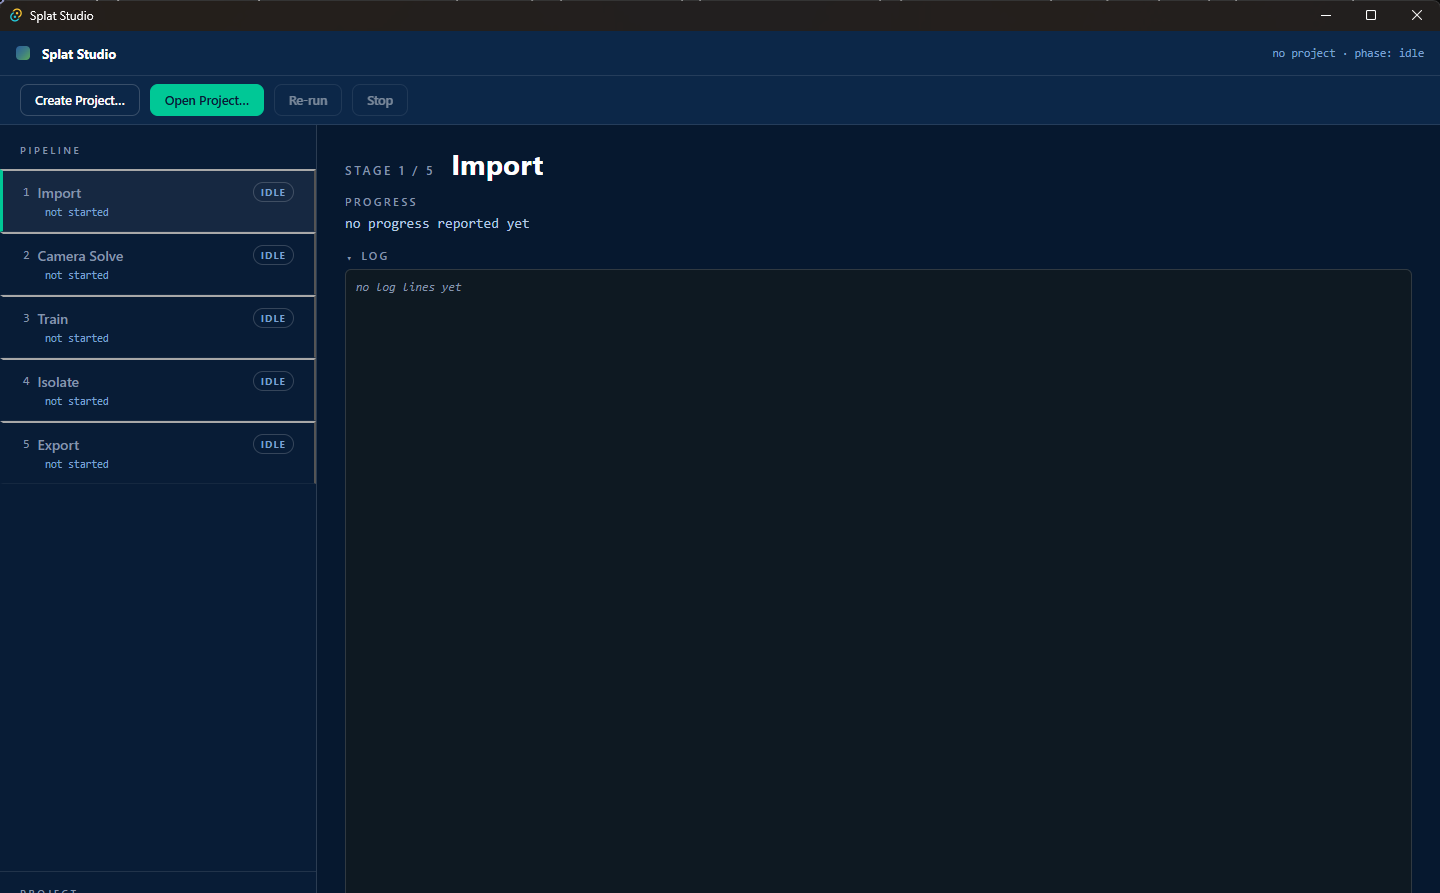
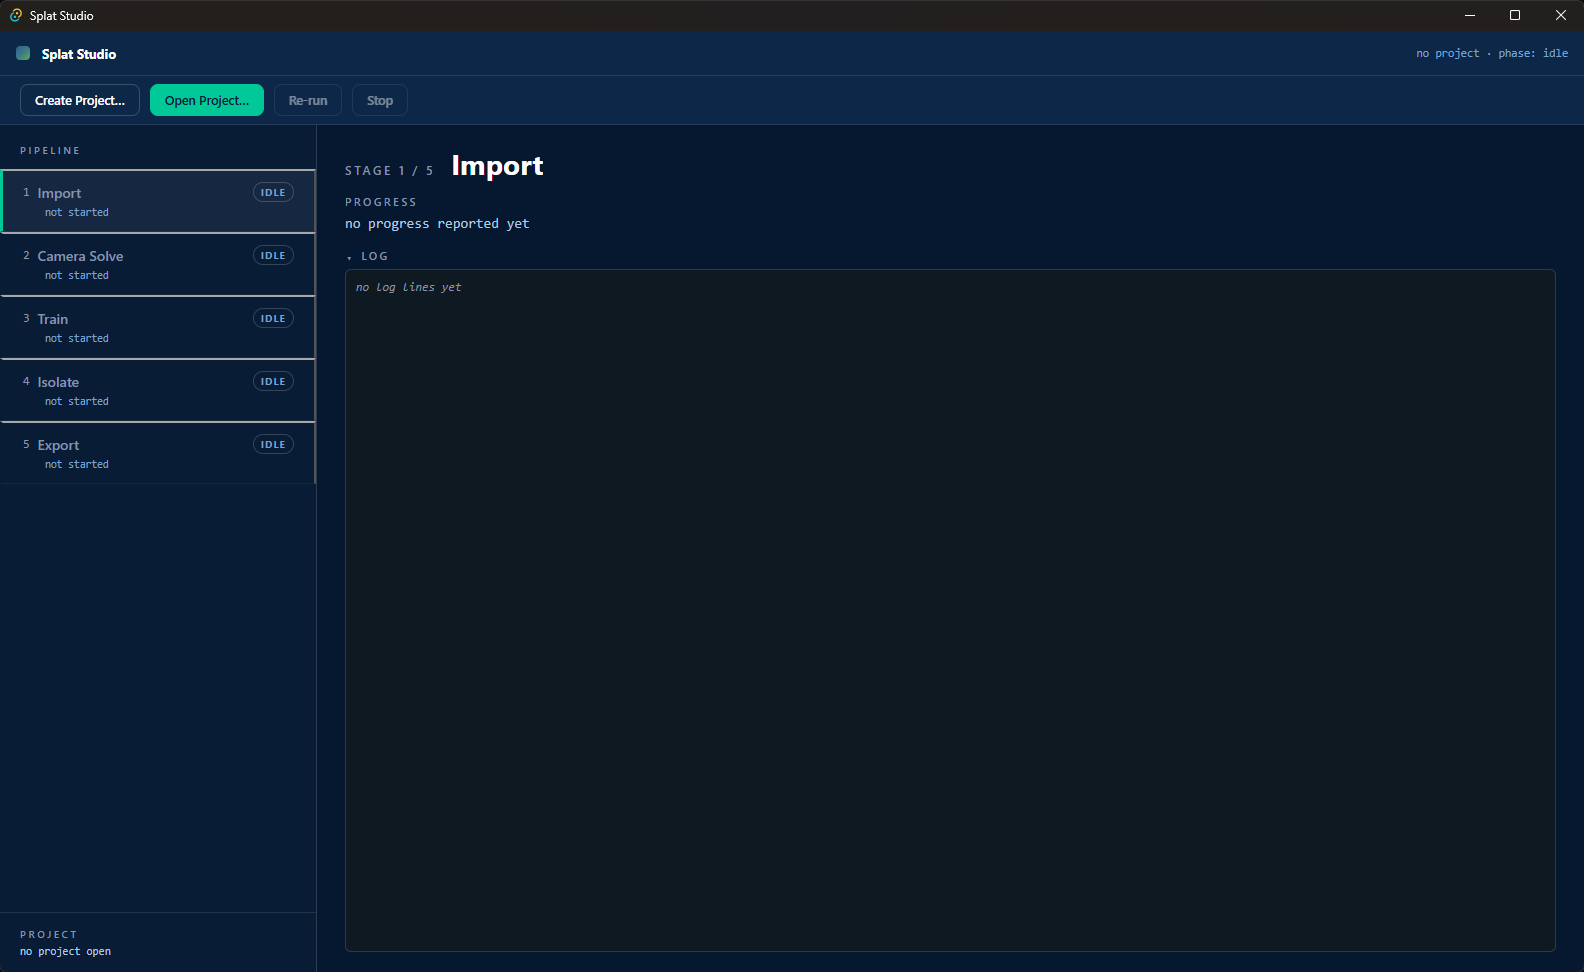
Six real screenshots through the guide
The guide shipped with one screenshot and five placeholders because one was
all that existed: the app had never been run in a window, and I would not
invent images of software -- a fabricated screenshot is worse than none,
because someone follows it and finds the app does not look like that.

The real-window pass produced twelve. Six are wired in here, all post-fix so
they show the app as it now behaves rather than as it did before the
isolation screen was clipping itself:

  launch, Create project, the isolation screen with the crop panels, the 3D
  view with its wireframe crop box, the cascade tuning row, and Export with
  the deliverables and Re-tune control.

The isolation and 3D shots are the ones worth having -- they show green for
what was kept, grey for the room being trimmed away, and the crop box in
both the flat panels and perspective, which is the thing the design is
about and is impossible to describe in prose.

Changed region(s): [[0.0, 0.0, 1.0, 0.5442], [0.0, 0.9373, 0.0625, 1.0], [0.875, 0.0302, 1.0, 0.0605]]

diff --git a/GUIDE.md b/GUIDE.md
@@ -78,8 +78,7 @@ Two things on this screen are worth reading rather than clicking past:
 - **The clip list.** Two files with the same name from different folders
   cannot both be used, because the config records them by name.
 
-> **Screenshot to add:** the Create Project dialog with clips selected and the
-> resolution readout visible. `docs/images/02-create-project.png`
+![The Create project dialog: a name field, a button to choose video clips, and a button to choose where the project folder goes](docs/images/02-create-project.png)
 
 ---
 
@@ -96,8 +95,8 @@ from, so re-running skips anything already finished and still valid —
 `already complete, skipping (resumability)`. If you change a setting that
 matters, the stages downstream of it re-run and the ones upstream do not.
 
-> **Screenshot to add:** a run in progress, ideally mid-Train with the
-> progress bar and a preview image. `docs/images/03-running.png`
+The stage rail on the left tracks all five at once, so you can see at a glance
+where the run is and what it has already done.
 
 ---
 
@@ -113,7 +112,8 @@ registered-image count and asked to pick. **Usually the one with the most
 images is right** — it is preselected — but not always: a model built from 30
 images of one side of the object is worse than it looks.
 
-> **Screenshot to add:** the submodel choice screen. `docs/images/04-submodel.png`
+This one only appears when there is genuinely more than one candidate, so many
+projects never see it.
 
 ### Whether the isolated object is your object
 
@@ -143,9 +143,21 @@ seconds. **Confirm** moves on to Export. And confirming is not final —
 **Re-tune the isolation** on the Export screen brings this back without
 recomputing anything.
 
-> **Screenshot to add:** the isolation screen with the crop panels and 3D
-> view. This is the most useful screenshot in the guide.
-> `docs/images/05-isolate.png`
+![The isolation screen: 22,333 Gaussians kept with its bounding box, and three flat panels showing the object in green inside a yellow crop box, with the rest of the room in grey](docs/images/03-isolate.png)
+
+Green is what the cascade kept. Grey is the rest of the scene, drawn so you can
+see what you are trimming away. The yellow rectangle is the crop box — drag it
+on any panel and the other two follow.
+
+Scroll down on that screen and the same scene appears in 3D, with the crop box
+drawn as a wireframe around it:
+
+![The 3D view: the room as grey points, the isolated figure in green, and the crop box drawn as a yellow wireframe box around it in perspective](docs/images/04-3d-view.png)
+
+Below that are the cascade values themselves, and the two buttons that end the
+decision:
+
+![The cascade tuning row: opacity threshold, denoise k, denoise std ratio, DBSCAN eps and min points, pre-DBSCAN and colour filter, with Re-run and Confirm buttons](docs/images/05-tuning.png)
 
 ---
 
@@ -160,8 +172,11 @@ desktop splat viewers.
 Files from earlier runs are listed too, so a project you finished last week
 is still one click from a copy.
 
-> **Screenshot to add:** the deliverables panel with a saved `.ply`.
-> `docs/images/06-export.png`
+![The Export stage listing two deliverables, each with a Save a copy button, and a Re-tune the isolation control below them](docs/images/06-export.png)
+
+Note the **Re-tune the isolation** control underneath. Confirming is not a
+one-way door — that button brings the isolation screen back, and nothing is
+recomputed when it does.
 
 ---
 
